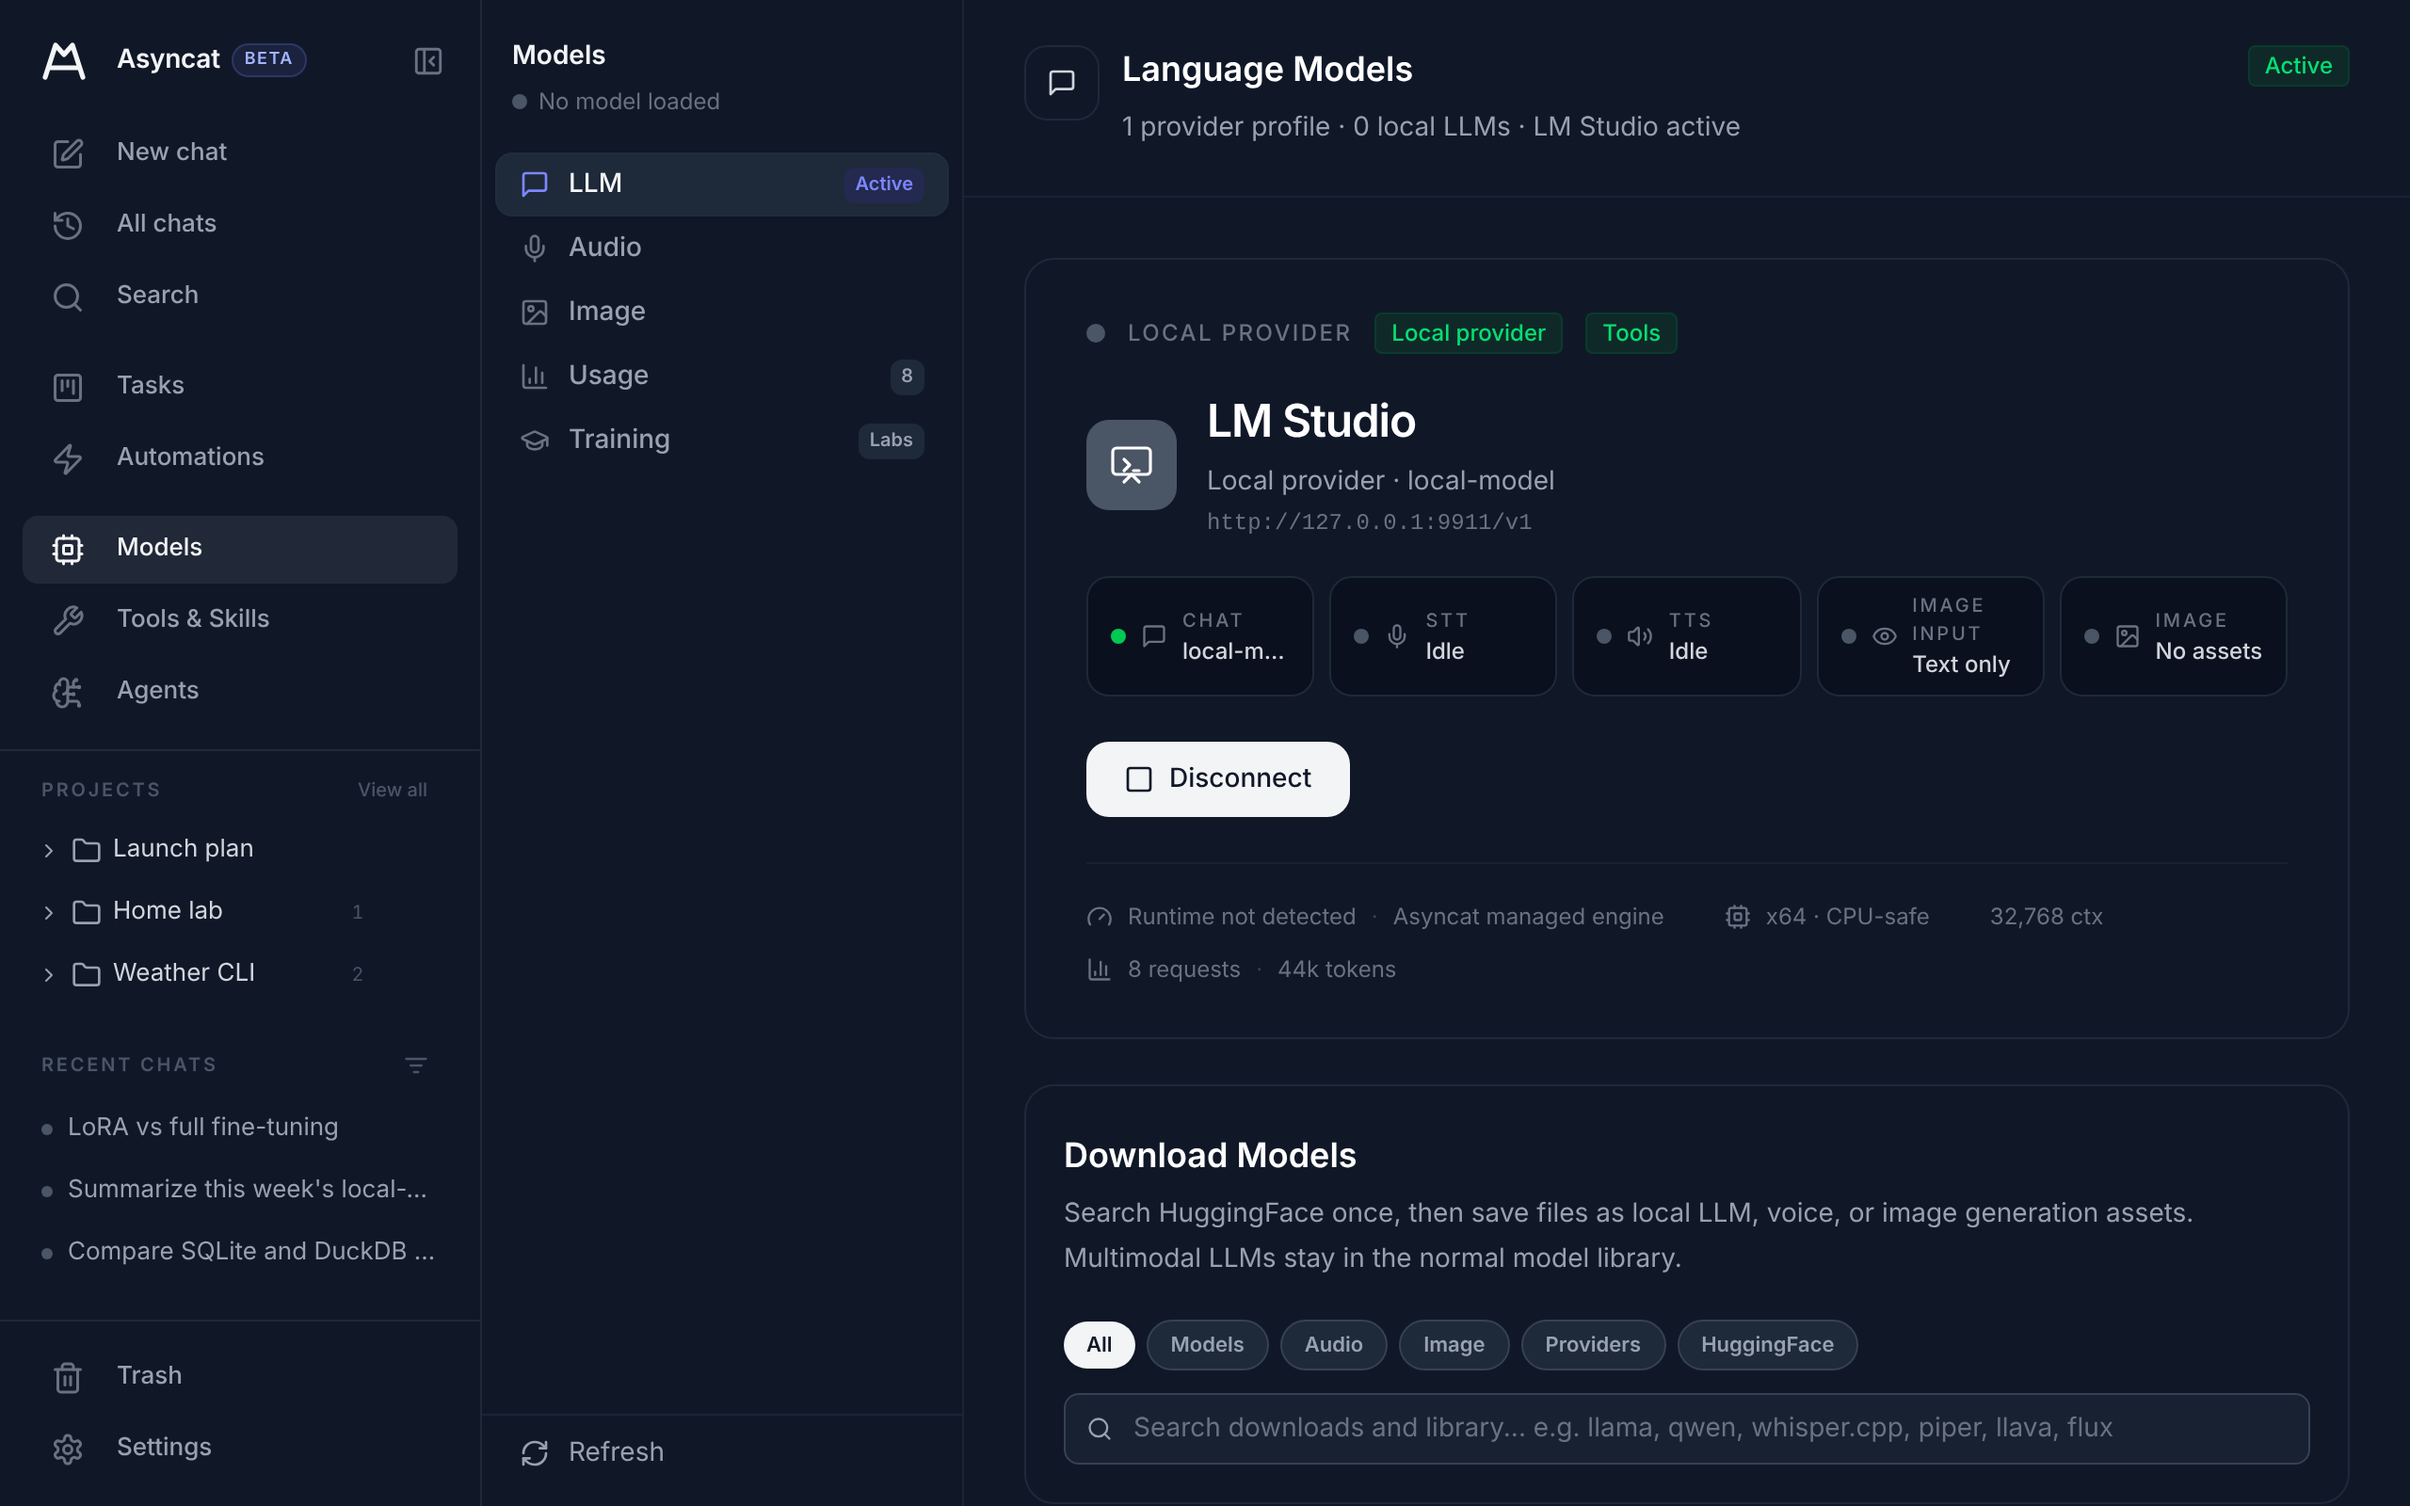
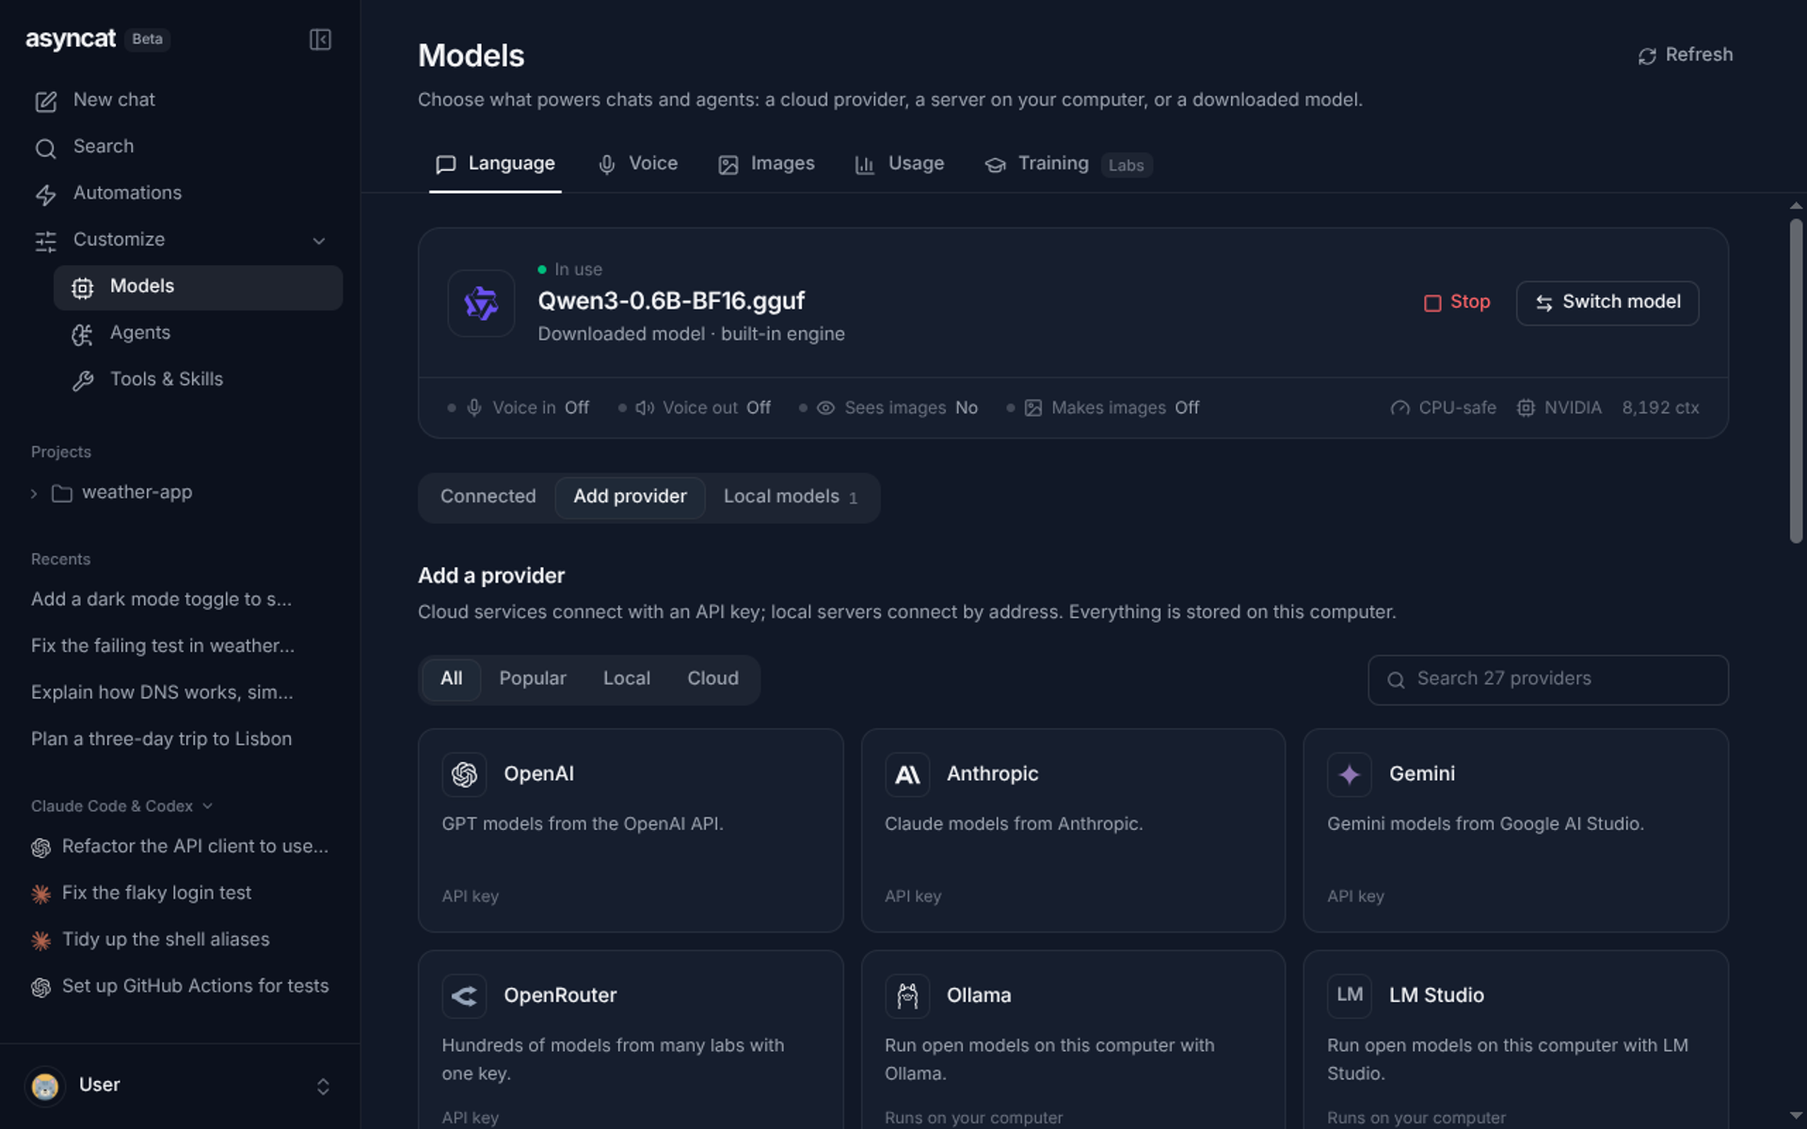
docs: new screenshots and README for the simpler app
- New screenshots from a demo workspace with made-up chats and sessions
  (no real data): a finished agent run as the README's lead image, the
  home screen, Coding agents, Models and the update screen. The old
  screenshots and the demo GIF showed the pre-redesign UI and are gone.
- README: Notes instead of the removed "Workspace" (notes + kanban) row,
  210+ tools, directions go through Customize, the source tree drops
  kanban/ and views/.
- den and neko READMEs and the Linux package description no longer
  mention kanban or tasks.

diff --git a/README.md b/README.md
@@ -1,12 +1,12 @@
 # asyncat
 
-**A local-first AI agent desktop app.** 220+ tools. 51 skills. Self-improving. Desktop automation. Fully offline.
+**A local-first AI agent desktop app.** 210+ tools. 51 skills. Self-improving. Desktop automation. Fully offline.
 
 > **v0.8.0-beta.6** · MIT · [Install](#quick-start) · [Screenshots](#screenshots) · [Website](https://asyncat.com)
 
-![Asyncat finding and fixing a failing test](docs/images/demo.gif)
+![Asyncat after fixing a failing test: the steps it took, folded under "Worked for", and its answer](docs/images/chat.png)
 
-<sub>An agent run in a project folder, recorded before the beta.6 redesign: the agent makes a plan, asks before running `npm test` and before editing a file (with the diff), then runs the tests again. The commands and the edit really ran. The model's replies came from a scripted local endpoint, so the recording can be reproduced.</sub>
+<sub>A finished agent run: what the agent did (it ran the tests, read and edited a file, ran them again) and its answer. Screenshots use a demo workspace with example chats.</sub>
 
 ---
 
@@ -22,11 +22,11 @@ It is not a chatbot wrapper. It controls your screen, writes and runs code, mana
 
 | | |
 |---|---|
-| **220+ tools** | Files, shell, git, browser, Docker, screen, keyboard, semantic memory, RAG, notes, kanban, system, network, audio, image, design canvases, code analysis, sandboxes, scheduler, workflows, model management, integrations |
+| **210+ tools** | Files, shell, git, browser, Docker, screen, keyboard, semantic memory, RAG, notes, system, network, audio, image, design canvases, code analysis, sandboxes, scheduler, workflows, model management, integrations |
 | **51 bundled skills** | Reusable instruction modules: code review, debugging, TDD, deployment, security audit, incident response, data engineering, and more |
 | **Basal Ganglia** | Watches which tools succeed for which kinds of goals. After 3 successful runs of the same goal pattern with the same set of tools it writes a new skill automatically. No annotation, no config |
 | **One chat box** | Chat and agent work happen in the same place. The **Tools** setting decides per message: **Auto** runs the agent when the model supports tools or a project, file or mention is involved; **Just chat** talks to the model directly; **Always use tools** always runs the agent. The agent works in `plan` (read-only tools), `action` (full ReAct loop, asks before risky tools) or **Yolo** (`action` with auto-approve). A `design` mode (canvases, artifacts and images; no source edits or shell/git writes) is available through the API |
-| **Claude Code and Codex** | Hand a chat to Claude Code or Codex installed on your computer, signed in with your own account. Pick one, and its model, under the message box; follow-ups continue the same session and its steps show in the chat. Your existing Claude Code and Codex sessions (from the terminal or their apps) are listed in the sidebar: open one and carry on where you left off. In Action mode Claude Code asks through the usual approval card before running commands. **Agents → Coding agents** shows install and sign-in status, plan usage limits, and every session |
+| **Claude Code and Codex** | Hand a chat to Claude Code or Codex installed on your computer, signed in with your own account. Pick one, and its model, under the message box; follow-ups continue the same session and its steps show in the chat. Your existing Claude Code and Codex sessions (from the terminal or their apps) are listed in the sidebar: open one and carry on where you left off. In Action mode Claude Code asks through the usual approval card before running commands. **Customize → Agents → Coding agents** shows install and sign-in status, plan usage limits, and every session |
 | **Approvals** | Before a risky tool runs, the agent asks: approve once, trust it for the rest of the run, or always allow. File edits show the diff before you decide |
 | **Small prompts for local models** | Each agent step sends a core set of tools (about 40, or 24 for models that read tools from the prompt) instead of the full list. The agent finds the rest with `tool_search` when it needs them |
 | **35+ providers** | OpenAI, Anthropic, Gemini, Ollama, llama.cpp, MLX, LM Studio, OpenRouter, DeepSeek, Groq, Together AI, Mistral, Perplexity, Cohere, and more |
@@ -34,15 +34,15 @@ It is not a chatbot wrapper. It controls your screen, writes and runs code, mana
 | **Desktop automation** | Click, type, read screen content via OCR, focus windows — controls your actual machine |
 | **Sandboxes** | Isolated workspace copies. Review changes as a unified diff. Apply or discard. Commit to a branch |
 | **Automations** | Workflows, Schedules and Activity under one sidebar entry. Chain agent steps into a saved workflow and run it on demand or on a schedule, under any agent profile; each step can pass its output to the next. Schedule single agent jobs too, and follow every run in one feed. The agent can trigger workflows itself |
-| **Command palette** | `Cmd/Ctrl+K` from anywhere — jump to any page, or search projects, notes, chats, tasks, and memory |
+| **Command palette** | `Cmd/Ctrl+K` from anywhere — jump to any page, or search projects, notes, chats, and memory |
 | **Semantic memory** | Recall by meaning, not just keywords. Uses your provider's embeddings when available, falls back to an offline keyword (hashed lexical) index |
 | **Built-in browser** | A real tabbed browser the agent shares. Hand it the page you're on with one click, or let it browse on its own |
 | **MCP support** | Add stdio MCP servers to `data/mcp.json` in the backend data folder (`den/data/mcp.json` from source, `<user data>/data/mcp.json` when installed). It is created on first start and hot-reloaded. Also manageable through `/api/agent/mcp` (no UI yet) |
 | **Persistent memory** | SQLite-backed key-value memory with types: `user`, `feedback`, `project`, `reference`, `fact`, `preference`, `context`, `task_state` |
-| **Workspace** | Notes (markdown, delta-based, export to DOCX/PDF), Kanban (columns, cards, checklists) |
+| **Notes** | The agent writes notes as documents in the chat; open one to edit it (rich text, tables, export to DOCX/PDF). `Cmd/Ctrl+K` finds them |
 | **System tray** | Left-click for quick chat, right-click to show Asyncat, restart the backend, or quit. On macOS, closing the window keeps the backend, schedules, and workflows running |
 | **Global shortcuts** | `Cmd/Ctrl+Shift+A` summons Asyncat from any app; `Cmd/Ctrl+Shift+Space` opens quick chat. Change or turn off either one in **Settings → Appearance** |
-| **Fine-tuning (Labs)** | **Models → Training** trains a LoRA adapter for a local model and saves it to disk. Loading the adapter is still up to you |
+| **Fine-tuning (Labs)** | **Customize → Models → Training** trains a LoRA adapter for a local model and saves it to disk. Loading the adapter is still up to you |
 | **Native notifications** | System-level alerts when a background run finishes, asks you a question, or needs tool approval |
 | **Fully offline** | Every feature works with local models. No data leaves your machine (installed builds only check GitHub Releases for updates) |
 
@@ -50,18 +50,12 @@ It is not a chatbot wrapper. It controls your screen, writes and runs code, mana
 
 ## Screenshots
 
-These were taken before the beta.6 redesign (new sidebar, Models page, chat and logo).
-
 | | |
 |---|---|
-| ![Approving a file edit with its diff, dark theme](docs/images/approval.png) | ![Automations: a scheduled workflow, Midnight theme](docs/images/automations.png) |
-| **Approvals** show what a file edit will change before you allow it. | **Automations** keeps Workflows, Schedules and Activity together. |
-| ![Models page, dark theme](docs/images/models.png) | ![A finished agent run](docs/images/agent-run.png) |
-| **Models**: providers, local engines, audio, images, usage and training. | **A finished run**: the answer, what changed, and the steps folded away. |
-
-![System-wide shortcut settings](docs/images/shortcuts.png)
-
-The system-wide shortcuts can be rebound or turned off, and the card says when another app already owns a combination.
+| ![Home screen with the sidebar, light theme](docs/images/home.png) | ![Coding agents page with Claude Code, Codex and their sessions](docs/images/coding-agents.png) |
+| **One chat box**: pick who answers (Asyncat, Claude Code or Codex) and the model; your Claude Code and Codex sessions sit in the sidebar. | **Coding agents**: install and sign-in status, plan usage, and every Claude Code and Codex session on this computer. |
+| ![Models page, Add provider view](docs/images/models.png) | ![Update screen with release notes](docs/images/update.png) |
+| **Models**: the model in use, a searchable provider directory, local models, voice, images, usage and training. | **Updates** download, get checked against the release checksums, and install from inside the app. |
 
 ---
 
@@ -231,7 +225,7 @@ Page navigation shortcuts (`Cmd/Ctrl+1`…) and the two global shortcuts can be 
 
 ### 1. Add a provider
 
-Go to **Models → Language**:
+Go to **Customize → Models → Language**:
 
 - **Local**: under **Local models**, load a GGUF model with the built-in llama.cpp engine (models already in your Hugging Face cache are listed too), or connect Ollama, LM Studio, MLX or another local server under **Add provider**. The last model you loaded is loaded again when Asyncat starts
 - **Cloud**: under **Add provider**, search for OpenAI, Anthropic, Gemini, OpenRouter and others and add your key. Asyncat lists the provider's models so you can pick one before saving
@@ -251,7 +245,7 @@ Go to **Automations → Schedules** and create repeating agent jobs — hourly c
 
 ### 4. Manage skills and memory
 
-Go to **Tools & Skills** to browse the tool inventory, load skill modules, edit agent soul, and review memory entries.
+Go to **Customize → Tools & Skills** to browse the tool inventory, load skill modules, edit agent soul, and review memory entries.
 
 ---
 
@@ -283,7 +277,6 @@ asyncat-oss/
 │   │   ├── files/             # File explorer service (/api/files)
 │   │   ├── install/           # Runtime readiness checks (/api/install)
 │   │   ├── integrations/      # GitHub, Obsidian, RSS, mail, outbound notifications
-│   │   ├── kanban/            # Cards + columns (/api/cards, /api/columns)
 │   │   ├── lib/               # Shared helpers: .env I/O, system deps, engine installs
 │   │   ├── middleware/        # Local profile context, cross-site request guard
 │   │   ├── notes/             # Delta-based notes, export (/api/notes)
@@ -296,7 +289,7 @@ asyncat-oss/
 ├── neko/            # React + Vite frontend
 │   └── src/
 │       ├── CommandCenter/     # Chat and agent runs
-│       ├── Agent/             # Agents page (profiles)
+│       ├── Agent/             # Agents page (profiles, coding agents)
 │       ├── Models/            # LLM providers, local models and runtimes, audio, images
 │       ├── Profiles/          # Agent profiles
 │       ├── Automations/       # Tab bar grouping the next three pages
@@ -306,10 +299,10 @@ asyncat-oss/
 │       ├── Tools/             # Tools & skills browser
 │       ├── Training/          # Fine-tuning jobs (shown as Models → Training)
 │       ├── Settings/          # Settings tabs
-│       ├── projects/          # Projects
-│       ├── sidebar/           # Sidebar and Cmd/Ctrl+K search
-│       ├── notes/             # Notes editor
-│       └── views/             # Kanban, list, tasks
+│       ├── projects/          # Projects (folders the agent works in, and their chats)
+│       ├── sidebar/           # Sidebar, Claude Code & Codex sessions, Cmd/Ctrl+K search
+│       ├── components/        # Shared UI pieces and the update screen
+│       └── notes/             # Notes editor (opened from note documents in chat)
 ├── scripts/         # Install, icon, Node bundling, and release scripts
 ├── build/           # Windows installer customization (installer.nsh)
 └── electron-builder.yml # Electron desktop packaging configuration

diff --git a/neko/README.md b/neko/README.md
@@ -11,10 +11,11 @@ Built with **React 19**, **Vite 6**, and **TailwindCSS 4**.
 The UI for the full Asyncat experience:
 
 - **Command Center** — one chat box for direct model chat and agent runs (Plan, Action, and Yolo), streaming, tool approvals, memory; a chat can also be answered by Claude Code or Codex
-- **Projects & Tasks** — kanban and list views
-- **Notes** — block-based editor with tables, charts, media, and DOCX/PDF export
+- **Projects** — the folders the agent can work in, with their chats
+- **Notes** — documents the agent writes in chat, opened in a block editor with tables, charts, media, and DOCX/PDF export
+- **Claude Code & Codex** — sessions from this computer in the sidebar, and Agents → Coding agents
 - **Models** — LLM providers, local models and runtimes, audio and image models, and **Training** (LoRA fine-tuning, marked Labs)
-- **Tools & Skills** and **Agents** (profiles)
+- **Customize** — Models, Agents (profiles and coding agents) and Tools & Skills, grouped in the sidebar
 - **Automations** — Workflows, Schedules, and Activity under one sidebar entry, with a tab bar
 - **Terminal** — integrated xterm.js terminal (desktop app) plus live agent process output
 - **Built-in browser** shared with the agent
@@ -33,10 +34,9 @@ Run `npm install` from the repository root. Its postinstall copies
 VITE_USER_URL=http://127.0.0.1:8716
 VITE_MAIN_URL=http://127.0.0.1:8716
 VITE_NOTES_URL=http://127.0.0.1:8716
-VITE_KANBAN_URL=http://127.0.0.1:8716
 ```
 
-All four point at the local den backend.
+All three point at the local den backend.
 
 ### Run
 

diff --git a/den/README.md b/den/README.md
@@ -17,7 +17,6 @@ Den is a single Express server that handles everything:
 | Config | `/api/config/*` |
 | Users / Projects | `/api/users/*`, `/api/projects/*` |
 | Workspaces | `/api/teams/*` |
-| Kanban | `/api/cards/*`, `/api/columns/*` |
 | Notes | `/api/notes/*`, `/api/attachments/*` (note attachments) |
 | Files | `/api/files/*` (file explorer) |
 | Storage | `/files/*`, `/api/storage/*` (uploaded files and logs) |
@@ -83,7 +82,7 @@ another `Origin`, or addressed to a non-local `Host`, are rejected.
 
 ## Agent tools
 
-About 220 tools are registered. Each agent step sends the model a core set
+About 215 tools are registered. Each agent step sends the model a core set
 chosen for the task: about 40 with native tool calling, 24 for models that
 read tool definitions from the prompt. The rest stay reachable through the
 `tool_search` tool, which returns matching definitions and makes those tools
